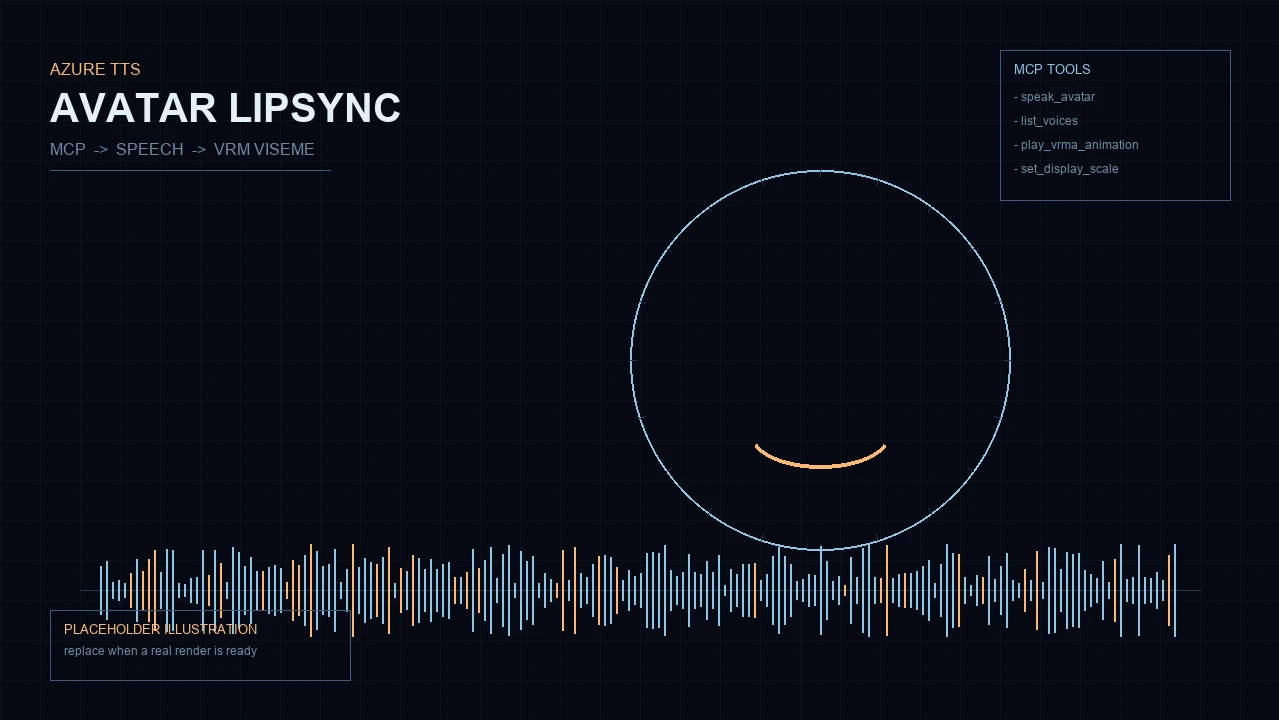
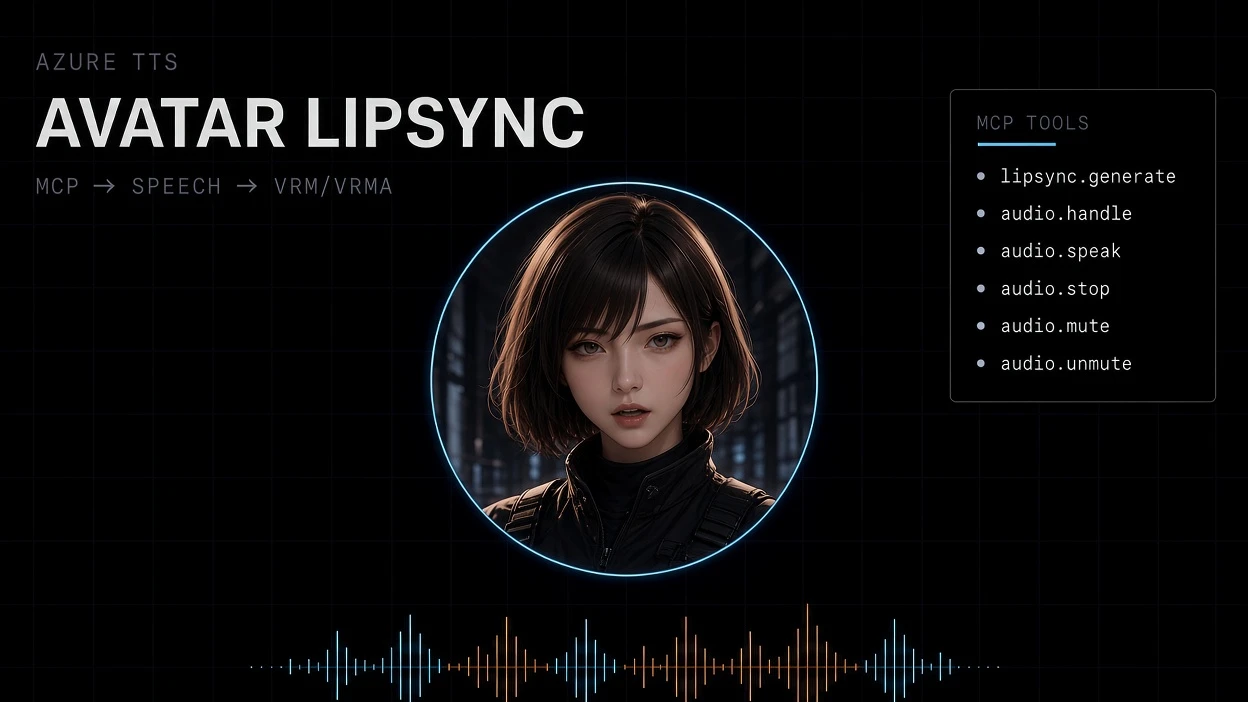
Replace TTS/lip-sync placeholder with real illustration; 30+ -> 40+ years
- assets/work-tts-avatar.webp: swapped the hand-drawn PIL placeholder
  for a real illustration (source: lipsync02.jpg, matching the visual
  style of the other work-card images). Cropped from the source's 3:2
  to the site's 16:9 by trimming from the bottom only, to avoid cutting
  into the title text near the top.
- "30+ YEARS" -> "40+ YEARS" in the capability strip -- factual
  correction from Kaz (career spans ~40 years, not 30).

diff --git a/en/index.html b/en/index.html
@@ -1006,7 +1006,7 @@
 </div>
 <div aria-hidden="true" class="hero-visual"><div class="hero-backdrop"><img alt="" decoding="async" loading="eager" src="../assets/hero-backdrop.webp"/></div><canvas aria-hidden="true" id="sphere"></canvas><div class="hero-badges"><span class="hero-badge">RESEARCH SOFTWARE</span><span class="hero-badge">PHYSICAL AI</span><span class="hero-badge">DEBUGGING</span></div><div aria-hidden="true" class="hero-orb"></div><div class="hero-caption">AI / EMBEDDED / DEVICE / WEB<br/>PROTOTYPING &amp; DEBUGGING</div><div aria-hidden="true" class="signal-lines"><i></i><i></i><i></i><i></i></div></div>
 </div>
-</section><section aria-label="Profile summary" class="capability-strip"><div class="wrap capability-grid"><div class="capability-item"><span class="capability-key">30+ YEARS</span><span class="capability-value">Following technology as it changes</span></div><div class="capability-item"><span class="capability-key">CROSS-DOMAIN</span><span class="capability-value">AI / Embedded / Devices / Web</span></div><div class="capability-item"><span class="capability-key">END-TO-END</span><span class="capability-value">Design, implementation, hardware verification, operation</span></div><div class="capability-item"><span class="capability-key">29 TITLES</span><span class="capability-value">Technical book translation, supervision, and editing</span></div></div></section>
+</section><section aria-label="Profile summary" class="capability-strip"><div class="wrap capability-grid"><div class="capability-item"><span class="capability-key">40+ YEARS</span><span class="capability-value">Following technology as it changes</span></div><div class="capability-item"><span class="capability-key">CROSS-DOMAIN</span><span class="capability-value">AI / Embedded / Devices / Web</span></div><div class="capability-item"><span class="capability-key">END-TO-END</span><span class="capability-value">Design, implementation, hardware verification, operation</span></div><div class="capability-item"><span class="capability-key">29 TITLES</span><span class="capability-value">Technical book translation, supervision, and editing</span></div></div></section>
 <section id="ask">
 <div class="wrap">
 <div class="section-head"><p class="eyebrow">What I Can Take On</p><h2>What I Can Help With</h2><p class="section-lead">Organized by the kind of problem you can bring me, not a list of technologies. This includes tools that fall outside your core research but still need building, and bugs whose cause isn't known yet.</p></div>

diff --git a/index.html b/index.html
@@ -1006,7 +1006,7 @@
 </div>
 <div aria-hidden="true" class="hero-visual"><div class="hero-backdrop"><img alt="" decoding="async" loading="eager" src="assets/hero-backdrop.webp"/></div><canvas aria-hidden="true" id="sphere"></canvas><div class="hero-badges"><span class="hero-badge">RESEARCH SOFTWARE</span><span class="hero-badge">PHYSICAL AI</span><span class="hero-badge">DEBUGGING</span></div><div aria-hidden="true" class="hero-orb"></div><div class="hero-caption">AI / EMBEDDED / DEVICE / WEB<br/>PROTOTYPING &amp; DEBUGGING</div><div aria-hidden="true" class="signal-lines"><i></i><i></i><i></i><i></i></div></div>
 </div>
-</section><section aria-label="プロフィール概要" class="capability-strip"><div class="wrap capability-grid"><div class="capability-item"><span class="capability-key">30+ YEARS</span><span class="capability-value">技術の変化を追い続ける</span></div><div class="capability-item"><span class="capability-key">CROSS-DOMAIN</span><span class="capability-value">AI / 組み込み / デバイス / Web</span></div><div class="capability-item"><span class="capability-key">END-TO-END</span><span class="capability-value">設計・実装・実機検証・運用</span></div><div class="capability-item"><span class="capability-key">29 TITLES</span><span class="capability-value">技術書の監訳・監修・編集</span></div></div></section>
+</section><section aria-label="プロフィール概要" class="capability-strip"><div class="wrap capability-grid"><div class="capability-item"><span class="capability-key">40+ YEARS</span><span class="capability-value">技術の変化を追い続ける</span></div><div class="capability-item"><span class="capability-key">CROSS-DOMAIN</span><span class="capability-value">AI / 組み込み / デバイス / Web</span></div><div class="capability-item"><span class="capability-key">END-TO-END</span><span class="capability-value">設計・実装・実機検証・運用</span></div><div class="capability-item"><span class="capability-key">29 TITLES</span><span class="capability-value">技術書の監訳・監修・編集</span></div></div></section>
 <section id="ask">
 <div class="wrap">
 <div class="section-head"><p class="eyebrow">What I Can Take On</p><h2>相談できること</h2><p class="section-lead">技術名の一覧ではなく、持ち込める課題の形で整理しています。研究の本筋ではないけれど必要になる道具や、まだ原因が分からない不具合も含みます。</p></div>
